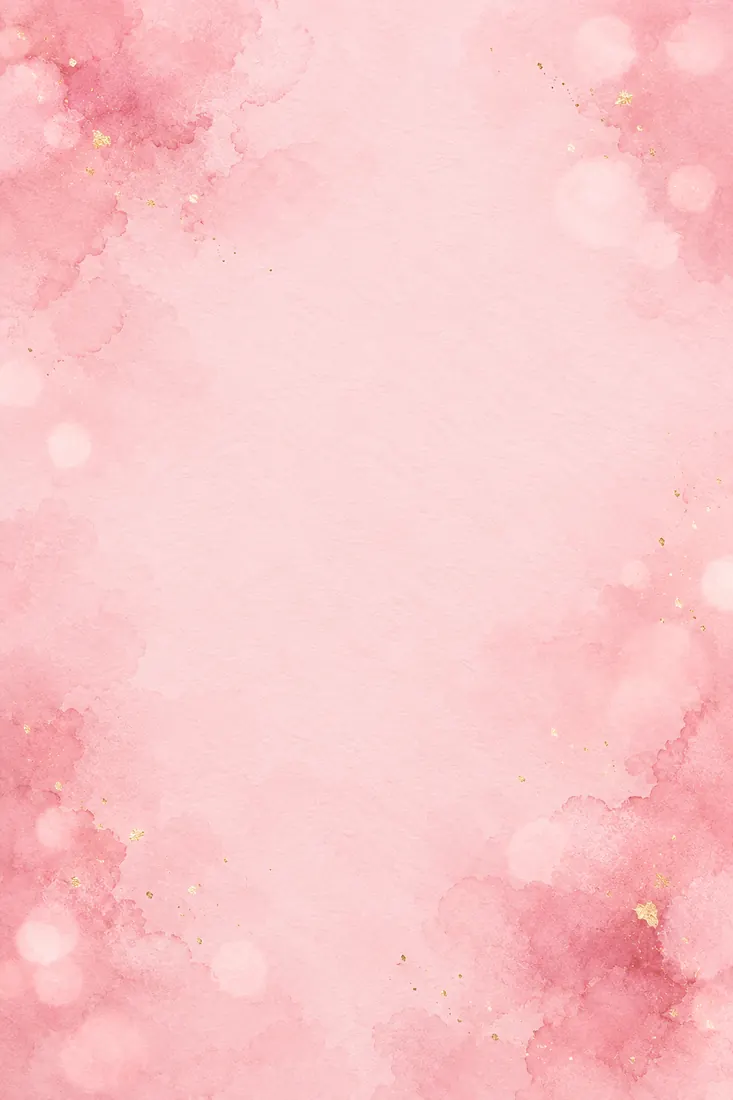
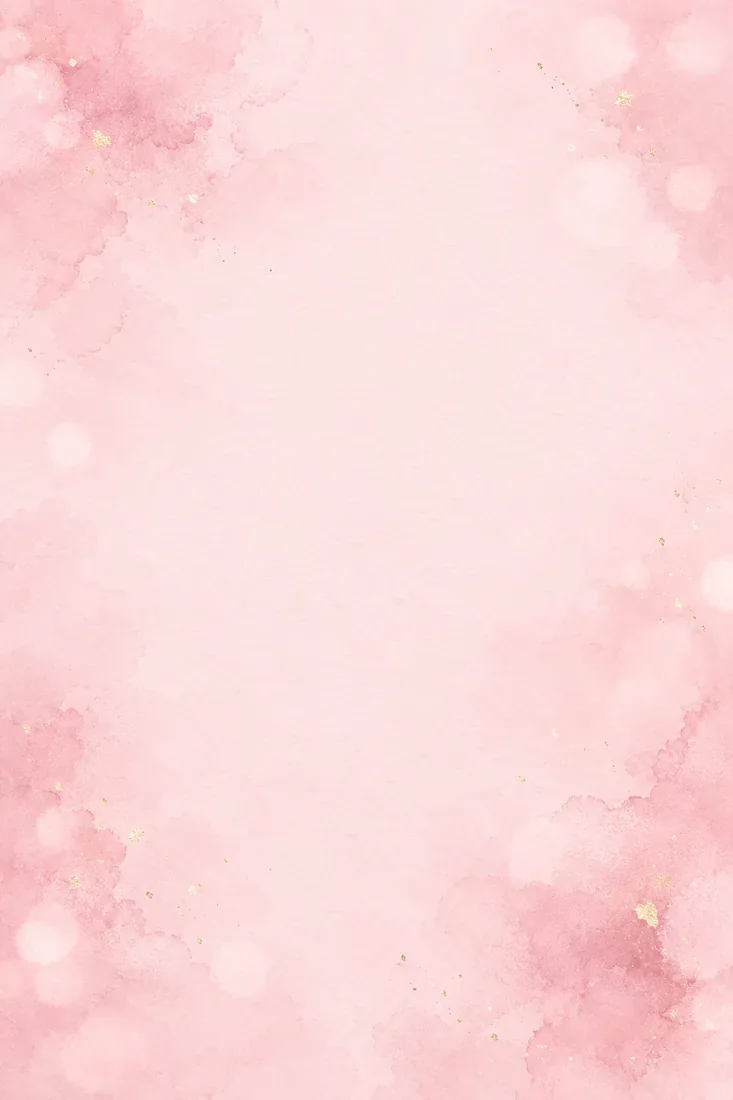
Use the layered paper-cut gate as the /hq2 intro
Three-layer paper-cut floral arch; tapping "Bước vào thiệp" steps
through the gate into the invitation. Colours brightened slightly.

Claude-Session: https://claude.ai/code/session_01Yc1WXYE9fZ5AE7FLixeSb1

diff --git a/hq2/index.html b/hq2/index.html
@@ -14,8 +14,8 @@
   <meta property="og:description" content="Trân trọng kính mời quý khách đến chung vui cùng gia đình chúng tôi — 29.11.2026.">
   <meta name="theme-color" content="#fdeeec">
   <meta name="robots" content="noindex,nofollow">
-  <link rel="preload" as="image" href="anh/bia-thiep.webp">
-  <link rel="preload" as="image" href="anh/dau-sap.webp">
+  <link rel="preload" as="image" href="anh/c-truoc.webp">
+  <link rel="preload" as="image" href="anh/c-sau.webp">
   <link rel="preconnect" href="https://fonts.googleapis.com">
   <link rel="preconnect" href="https://fonts.gstatic.com" crossorigin>
   <link rel="stylesheet" href="https://fonts.googleapis.com/css2?family=Viaoda+Libre&family=EB+Garamond:ital,wght@0,400;0,500;0,600;0,700;1,400;1,500&family=Alex+Brush&family=Be+Vietnam+Pro:wght@400;500;600;700&display=swap">
@@ -341,84 +341,48 @@
     @keyframes qmo{0%{transform:scale(1)}40%{transform:scale(.94) rotate(-2deg)}100%{transform:scale(1.1) rotate(2deg);opacity:.2}}
     @media (prefers-reduced-motion:reduce){.qua-anh,.sao{animation:none !important;}}
 
-    /* ===== mở đầu: bìa thiệp màu nước, dấu sáp, lật sang trái như cuốn sách ===== */
-    .mo{flex-direction:column;gap:0;padding:20px 16px;
-      background:radial-gradient(70% 48% at 50% 44%,rgba(255,247,248,.7),rgba(252,228,232,.2) 72%),url(anh/nen-hong.webp) center/cover no-repeat,#f9dfe3;
-      backdrop-filter:none;-webkit-backdrop-filter:none;overflow:hidden;transition:opacity 1.05s ease,transform 1.25s cubic-bezier(.3,.7,.2,1);}
+    /* ===== mở đầu: cổng hoa giấy cắt nhiều lớp ===== */
+    .mo{flex-direction:column;gap:0;padding:18px 16px;overflow:hidden;backdrop-filter:none;-webkit-backdrop-filter:none;
+      background:radial-gradient(75% 52% at 50% 46%,rgba(255,250,251,.78),rgba(255,240,243,.32) 72%),url(anh/nen-hong.webp) center/cover no-repeat,#fbe9ec;
+      transition:opacity 1s ease,transform 1.2s cubic-bezier(.3,.7,.2,1);}
     .mo.tat{display:flex;opacity:0;transform:scale(1.08);pointer-events:none;}
     .bokeh{position:absolute;left:var(--x);top:var(--y);width:var(--s);height:var(--s);border-radius:50%;pointer-events:none;
       background:radial-gradient(circle,rgba(255,255,255,.8),rgba(255,236,240,.25) 45%,rgba(255,255,255,0) 70%);animation:bokeh 8s ease-in-out var(--d) infinite;}
     @keyframes bokeh{0%,100%{transform:translate(0,0) scale(1);opacity:.5}50%{transform:translate(12px,-18px) scale(1.15);opacity:.95}}
-    .sach{position:relative;width:min(78vw,318px,calc((100svh - 190px) / 1.5));aspect-ratio:2/3;perspective:1800px;
-      transition:transform 1.35s cubic-bezier(.55,.05,.25,1) .3s;animation:sachVao 1.2s cubic-bezier(.2,.8,.2,1) backwards;}
-    @keyframes sachVao{from{opacity:0;transform:translateY(26px) scale(.95)}to{opacity:1;transform:none}}
-    .bia,.trang-trong,.bia-truoc,.bia-sau{position:absolute;inset:0;border-radius:14px;}
-    .bia{z-index:2;transform-origin:0 50%;transform-style:preserve-3d;transition:transform 1.55s cubic-bezier(.62,.02,.2,1) .3s;}
-    .bia-truoc{overflow:hidden;backface-visibility:hidden;-webkit-backface-visibility:hidden;
-      background:#f8dfe3 url(anh/bia-thiep.webp) center/cover no-repeat;
-      box-shadow:0 36px 60px -24px rgba(110,35,55,.5),0 12px 24px -12px rgba(110,35,55,.3),inset 0 0 0 1px rgba(255,255,255,.55);}
-    .bia-truoc::after{content:"";position:absolute;inset:0;pointer-events:none;
-      background:linear-gradient(105deg,transparent 25%,rgba(255,255,255,.5) 45%,rgba(255,240,210,.35) 52%,transparent 70%);
-      transform:translateX(-120%);animation:loaBia 5s ease-in-out 1.6s infinite;}
-    @keyframes loaBia{0%{transform:translateX(-120%)}38%,100%{transform:translateX(120%)}}
-    .bia-sau{overflow:hidden;transform:rotateY(180deg);backface-visibility:hidden;-webkit-backface-visibility:hidden;
-      background:#fbe9ec url(anh/bia-trong.webp) center/cover no-repeat;box-shadow:inset -20px 0 30px -18px rgba(140,50,70,.35);}
-    .trang-trong{z-index:1;overflow:hidden;text-align:center;display:flex;flex-direction:column;align-items:center;justify-content:center;padding:12% 14%;
-      background:#fdf3f4 url(anh/trang-trong.webp) center/cover no-repeat;
-      box-shadow:0 36px 60px -24px rgba(110,35,55,.45),0 12px 24px -12px rgba(110,35,55,.25);}
-    .trang-trong::after{content:"";position:absolute;inset:0;pointer-events:none;background:linear-gradient(90deg,rgba(110,35,55,.34),rgba(110,35,55,0) 55%);
-      transition:opacity 1.3s ease .8s;}
-    /* chữ trên mặt bìa */
-    .bt-vom{position:absolute;left:21%;right:21%;top:19%;bottom:31%;display:flex;flex-direction:column;align-items:center;justify-content:center;text-align:center;}
-    .bt-nho{font-family:var(--sans);font-size:clamp(8px,2.5vw,9.5px);letter-spacing:.32em;text-transform:uppercase;color:#a9803f;padding-left:.32em;margin-bottom:8%;}
-    .bt-ten{font-family:"Viaoda Libre",var(--serif);font-size:clamp(22px,7vw,29px);line-height:1.12;color:#b84a5f;}
-    .bt-va{font-family:"Alex Brush",cursive;font-size:clamp(26px,8vw,34px);line-height:1.1;
-      background:linear-gradient(100deg,#9b7130,#d9b46a 30%,#f6e2a8 45%,#c79b4c 60%,#a77b36);background-size:220% 100%;
-      -webkit-background-clip:text;background-clip:text;color:transparent;animation:nhuVang 5s linear infinite;padding:0 .1em;}
-    @keyframes nhuVang{to{background-position:-220% 0}}
-    .bt-gach{display:flex;align-items:center;gap:8px;margin:9% 0 6%;}
-    .bt-gach i{width:26px;height:1px;background:linear-gradient(90deg,transparent,#c29a55);}
-    .bt-gach i:last-child{background:linear-gradient(270deg,transparent,#c29a55);}
-    .bt-gach svg{width:9px;height:8px;fill:#c25467;}
-    .bt-ngay{font-family:var(--serif);font-size:clamp(13px,4vw,16px);letter-spacing:.2em;color:#8c3245;padding-left:.2em;font-variant-numeric:lining-nums;}
-    .bt-khach{position:absolute;left:12%;right:12%;top:74%;bottom:6%;display:flex;flex-direction:column;align-items:center;justify-content:center;text-align:center;}
-    .bt-loi{font-family:var(--sans);font-size:clamp(8px,2.5vw,9.5px);letter-spacing:.3em;text-transform:uppercase;color:#a9803f;padding-left:.3em;}
-    .bt-ten-khach{font-family:"Alex Brush",cursive;font-size:clamp(19px,6.1vw,25px);line-height:1.1;color:#9c3a50;margin-top:4px;text-wrap:balance;
-      overflow-wrap:anywhere;display:-webkit-box;-webkit-line-clamp:2;-webkit-box-orient:vertical;overflow:hidden;}
-    /* dấu sáp gắn mép phải */
-    .dau-sap{position:absolute;right:-9%;top:50%;width:26%;aspect-ratio:1;translate:0 -50%;z-index:5;padding:0;border:0;background:none;cursor:pointer;
-      border-radius:50%;-webkit-tap-highlight-color:transparent;animation:dapDau 2.8s ease-in-out 1.4s infinite;}
-    .dau-sap img{width:100%;height:100%;display:block;filter:drop-shadow(0 8px 10px rgba(100,25,45,.35));}
-    .dau-sap:focus-visible{outline:2px solid #8c3245;outline-offset:4px;}
-    @keyframes dapDau{0%,100%{transform:scale(1)}8%{transform:scale(1.07)}16%{transform:scale(1)}24%{transform:scale(1.05)}32%{transform:scale(1)}}
-    .mo-du{margin:22px 0 14px;font-family:var(--serif);font-style:italic;font-size:15px;color:#9a5a66;text-align:center;}
-    .nut-mo{animation:moiMo 2.6s ease-in-out 1.2s infinite;box-shadow:0 12px 24px -10px rgba(170,60,80,.7),0 0 0 3px rgba(224,196,138,.4);}
+    .cg-moi{display:flex;flex-direction:column;align-items:center;text-align:center;margin-bottom:18px;}
+    .cg-loi{font-family:var(--sans);font-size:10px;letter-spacing:.3em;text-transform:uppercase;color:#b58a45;padding-left:.3em;}
+    .cg-khach{font-family:"Alex Brush",cursive;font-size:clamp(28px,8.6vw,36px);line-height:1.1;color:#8c3245;margin-top:4px;text-wrap:balance;max-width:330px;overflow-wrap:anywhere;}
+    .cg-du{margin:16px 0 0;font-family:var(--serif);font-style:italic;font-size:14px;color:#9a5a66;text-align:center;}
+    .cong{position:relative;width:min(80vw,320px,calc((100svh - 250px) / 1.5));aspect-ratio:2/3;cursor:pointer;-webkit-tap-highlight-color:transparent;
+      animation:congVao 1.2s cubic-bezier(.2,.8,.2,1) backwards;}
+    @keyframes congVao{from{opacity:0;transform:translateY(24px) scale(.95)}to{opacity:1;transform:none}}
+    .lop{position:absolute;inset:0;transform-origin:50% 46%;}
+    .lop img{width:100%;height:100%;display:block;}
+    .lop-sau{border-radius:10px;overflow:hidden;background:#fdf3f4 url(anh/c-sau.webp) center/cover;
+      box-shadow:0 34px 56px -24px rgba(110,35,55,.45),0 10px 20px -10px rgba(110,35,55,.25);transition:transform 2.4s cubic-bezier(.2,.7,.2,1);}
+    .lop-giua{filter:drop-shadow(0 6px 6px rgba(110,35,55,.24));animation:dua1 7s ease-in-out infinite;}
+    .lop-truoc{filter:drop-shadow(0 10px 10px rgba(110,35,55,.28));animation:dua2 7s ease-in-out infinite;}
+    @keyframes dua1{0%,100%{translate:0 0}50%{translate:-3px 2px}}
+    @keyframes dua2{0%,100%{translate:0 0}50%{translate:4px -3px}}
+    .cg-chu{position:absolute;left:24%;right:24%;top:21%;bottom:24%;display:flex;flex-direction:column;align-items:center;justify-content:center;text-align:center;}
+    .cg-nho{font-family:var(--sans);font-size:9px;letter-spacing:.3em;text-transform:uppercase;color:#a9803f;padding-left:.3em;margin-bottom:8px;}
+    .cg-ten{font-family:"Viaoda Libre",var(--serif);font-size:clamp(21px,6.6vw,27px);color:#b84a5f;line-height:1.12;}
+    .cg-va{font-family:"Alex Brush",cursive;font-size:28px;line-height:1.1;color:#c29a55;}
+    .cg-gach{width:80px;height:1px;margin:12px 0 8px;background:linear-gradient(90deg,transparent,#c29a55,transparent);}
+    .cg-ngay{font-family:var(--serif);font-size:13px;letter-spacing:.16em;color:#8c3245;padding-left:.16em;}
+    .cg-am{margin-top:4px;font-family:var(--serif);font-size:11px;font-style:italic;color:#9a5a66;}
+    .nut-mo{margin-top:16px;animation:moiMo 2.6s ease-in-out 1.2s infinite;box-shadow:0 12px 24px -10px rgba(170,60,80,.7),0 0 0 3px rgba(224,196,138,.4);}
     @keyframes moiMo{0%,100%{box-shadow:0 12px 24px -10px rgba(170,60,80,.7),0 0 0 3px rgba(224,196,138,.4),0 0 0 0 rgba(203,93,108,.35)}
       50%{box-shadow:0 12px 24px -10px rgba(170,60,80,.7),0 0 0 3px rgba(224,196,138,.4),0 0 0 12px rgba(203,93,108,0)}}
-    /* chữ trang trong */
-    .tt-nho{font-family:var(--sans);font-size:9.5px;letter-spacing:.3em;text-transform:uppercase;color:#a9803f;padding-left:.3em;margin-bottom:12px;}
-    .tt-ten{font-family:"Viaoda Libre",var(--serif);font-size:clamp(24px,7.6vw,31px);color:#b84a5f;line-height:1.15;}
-    .tt-va{font-family:"Alex Brush",cursive;font-size:32px;line-height:1.15;color:#c29a55;}
-    .tt-gach{width:90px;height:1px;margin:16px 0 10px;background:linear-gradient(90deg,transparent,#c29a55,transparent);}
-    .tt-ngay{font-size:14px;letter-spacing:.14em;color:#8c3245;}
-    .tt-am{margin-top:6px;font-size:12px;font-style:italic;color:#9a5a66;}
-    .trang-trong > span{position:relative;opacity:0;transform:translateY(10px);transition:opacity .8s ease,transform .9s cubic-bezier(.2,.7,.2,1);}
-    /* đang mở */
-    .mo-ra .dau-sap{animation:voDau .6s cubic-bezier(.4,0,.2,1) forwards;}
-    @keyframes voDau{0%{transform:scale(1);opacity:1}35%{transform:scale(1.2) rotate(-10deg);opacity:1}100%{transform:scale(.3) rotate(-40deg) translate(10px,40px);opacity:0}}
-    .mo-ra .sach{transform:translateX(18%) translateY(-2%) scale(.8);}
-    .mo-ra .bia{transform:rotateY(-116deg);}
-    .mo-ra .bia-truoc::after{animation:none;}
-    .mo-ra .nut-mo,.mo-ra .mo-du{opacity:0;transition:opacity .4s;animation:none;}
-    .mo-ra .trang-trong::after{opacity:0;}
-    .mo-ra .trang-trong > span{opacity:1;transform:none;}
-    .mo-ra .trang-trong > span:nth-of-type(1){transition-delay:1.05s;} .mo-ra .trang-trong > span:nth-of-type(2){transition-delay:1.2s;}
-    .mo-ra .trang-trong > span:nth-of-type(3){transition-delay:1.35s;} .mo-ra .trang-trong > span:nth-of-type(4){transition-delay:1.5s;}
-    .mo-ra .trang-trong > span:nth-of-type(5){transition-delay:1.65s;} .mo-ra .trang-trong > span:nth-of-type(6){transition-delay:1.75s;}
-    .mo-ra .trang-trong > span:nth-of-type(7){transition-delay:1.85s;}
-    .mo.bay .sach{transform:translateX(10%) translateY(-4%) scale(1.32);opacity:0;
-      transition:transform .85s cubic-bezier(.5,0,.7,.3),opacity .55s ease .05s;}
-    .mo.bay .bokeh{opacity:0;transition:opacity .6s;}
+    /* bước qua cổng */
+    .mo-ra .lop-truoc{animation:quaTruoc 1.5s cubic-bezier(.55,0,.75,.2) forwards;}
+    @keyframes quaTruoc{to{transform:scale(3.2);opacity:0}}
+    .mo-ra .lop-giua{animation:quaGiua 1.7s cubic-bezier(.5,0,.7,.25) .1s forwards;}
+    @keyframes quaGiua{to{transform:scale(2.1);opacity:0}}
+    .mo-ra .lop-sau{transform:scale(1.14);}
+    .mo-ra .cg-chu > *{animation:sangChu 1.4s ease .5s both;}
+    @keyframes sangChu{0%{filter:none}40%{filter:drop-shadow(0 0 10px rgba(255,236,190,.9))}100%{filter:none}}
+    .mo-ra .cg-an,.mo-ra .nut-mo{opacity:0;transition:opacity .45s;animation:none;}
     .no-hoa{position:fixed;inset:0;pointer-events:none;z-index:3;}
     .no-hoa img,.no-hoa i{position:absolute;display:block;}
     .no-hoa .kim{border-radius:50%;background:radial-gradient(circle,#fff6d8,#e8c77d 55%,rgba(232,199,125,0) 72%);}
@@ -434,8 +398,7 @@
     html.da-mo .dau .deco:nth-child(7){animation-delay:.55s;} html.da-mo .dau .deco:nth-child(8){animation-delay:1s;}
     @keyframes decoVao{from{opacity:0;filter:blur(5px)}to{opacity:var(--o,1);filter:none}}
     @media (prefers-reduced-motion:reduce){
-      .sach,.bokeh,.nut-mo,.dau-sap,.bia-truoc::after,.bt-va{animation:none !important;}
-      .trang-trong > span{opacity:1;transform:none;}
+      .cong,.bokeh,.nut-mo,.lop-giua,.lop-truoc{animation:none !important;}
       html.da-mo .dau .vom,html.da-mo .vom h1,html.da-mo .dau .deco{animation:none !important;opacity:1;}
       .js .dau .deco{opacity:var(--o,1);}
     }
@@ -463,42 +426,20 @@
 <img src="anh/canh-4.webp" alt="" style="--x:64%;--s:22px;--d:17.6s;--tre:-1.2s;--lac:38px">
 </div>
 
-<!-- ============ THIỆP MỞ ĐẦU: bìa thiệp màu nước, dấu sáp ở mép, mở sang trái như cuốn sách ============ -->
+<!-- ============ THIỆP MỞ ĐẦU: cổng hoa giấy cắt nhiều lớp, bấm để "bước qua" vào thiệp ============ -->
 <div class="mo" id="mo">
   <i class="bokeh" style="--x:6%;--y:10%;--s:130px;--d:0s"></i><i class="bokeh" style="--x:74%;--y:6%;--s:90px;--d:-2s"></i>
   <i class="bokeh" style="--x:82%;--y:64%;--s:150px;--d:-4s"></i><i class="bokeh" style="--x:2%;--y:72%;--s:100px;--d:-1s"></i>
-  <i class="bokeh" style="--x:42%;--y:88%;--s:80px;--d:-3s"></i>
-  <div class="sach" id="sach">
-    <div class="trang-trong" aria-hidden="true">
-      <span class="tt-nho">Trân trọng kính mời</span>
-      <span class="tt-ten">Ngọc Huy</span>
-      <span class="tt-va">&amp;</span>
-      <span class="tt-ten">Hương Giang</span>
-      <span class="tt-gach"></span>
-      <span class="tt-ngay">Chủ Nhật · 29.11.2026</span>
-      <span class="tt-am">Tức ngày 21/10 năm Bính Ngọ</span>
-    </div>
-    <div class="bia">
-      <div class="bia-truoc">
-        <div class="bt-vom">
-          <span class="bt-nho">Thiệp mời cưới</span>
-          <span class="bt-ten">Ngọc Huy</span>
-          <span class="bt-va">&amp;</span>
-          <span class="bt-ten">Hương Giang</span>
-          <span class="bt-gach" aria-hidden="true"><i></i><svg viewBox="0 0 24 22"><use href="#tim"/></svg><i></i></span>
-          <span class="bt-ngay">29 · 11 · 2026</span>
-        </div>
-        <div class="bt-khach">
-          <span class="bt-loi" id="moLoi">Thân Mời</span>
-          <span class="bt-ten-khach" id="moTen">Quý khách</span>
-        </div>
-      </div>
-      <div class="bia-sau" aria-hidden="true"></div>
-    </div>
-    <button class="dau-sap" id="moDau" type="button" aria-label="Mở thiệp"><img src="anh/dau-sap.webp" alt="" width="355" height="360"></button>
+  <div class="cg-moi cg-an"><span class="cg-loi" id="moLoi">Thân Mời</span><span class="cg-khach" id="moTen">Quý khách</span></div>
+  <div class="cong" id="cong" role="button" tabindex="-1" aria-label="Mở thiệp">
+    <div class="lop lop-sau"><div class="cg-chu">
+      <span class="cg-nho">Thiệp mời cưới</span><span class="cg-ten">Ngọc Huy</span><span class="cg-va">&amp;</span><span class="cg-ten">Hương Giang</span>
+      <span class="cg-gach"></span><span class="cg-ngay">29 · 11 · 2026</span><span class="cg-am">Chủ Nhật · 21/10 năm Bính Ngọ</span></div></div>
+    <div class="lop lop-giua"><img src="anh/c-giua.webp" alt="" width="800" height="1200"></div>
+    <div class="lop lop-truoc"><img src="anh/c-truoc.webp" alt="" width="800" height="1200"></div>
   </div>
-  <p class="mo-du">Đến dự buổi tiệc chung vui cùng gia đình</p>
-  <button class="nut-mo" id="moBtn" type="button">Mở thiệp</button>
+  <p class="cg-du cg-an">Đến dự buổi tiệc chung vui cùng gia đình</p>
+  <button class="nut-mo" id="moBtn" type="button">Bước vào thiệp</button>
 </div>
 <script>document.documentElement.classList.add("dong","js");</script>
 
@@ -759,26 +700,25 @@ const TUCUON = (function(){
   return { batDau(tre){ btn.hidden = false; if(!reduce) setTimeout(chayDi, tre || 0); }, dung };
 })();
 
-/* ---------------- mở thiệp: dấu sáp vỡ, bìa lật sang trái, cánh hoa bung, rồi hiện trang ---------------- */
+/* ---------------- mở thiệp: bước xuyên qua cổng hoa giấy, cánh hoa bay, rồi hiện trang ---------------- */
 (function(){
   const mo = $("#mo"), html = document.documentElement; let xong = false;
   function bungHoa(){
-    const r = $("#sach").getBoundingClientRect(), cx = r.left + r.width * .66, cy = r.top + r.height * .42;
+    const r = $("#cong").getBoundingClientRect(), cx = r.left + r.width / 2, cy = r.top + r.height * .46;
     const lop = document.createElement("div"); lop.className = "no-hoa"; mo.appendChild(lop);
-    for(let i = 0; i < 42; i++){
-      const hoa = i < 28;
-      const e = document.createElement(hoa ? "img" : "i");
+    for(let i = 0; i < 44; i++){
+      const hoa = i % 3 !== 2, e = document.createElement(hoa ? "img" : "i");
       if(hoa){ e.src = "anh/canh-" + (1 + i % 4) + ".webp"; e.alt = ""; } else e.className = "kim";
       const s = hoa ? 16 + Math.random() * 20 : 4 + Math.random() * 6;
       e.style.cssText = `left:${cx - s / 2}px;top:${cy - s / 2}px;width:${s}px;height:${hoa ? "auto" : s + "px"}`;
       lop.appendChild(e);
-      const g = Math.random() * Math.PI * 2, d = (hoa ? 140 : 90) + Math.random() * (hoa ? 220 : 200);
-      const x = Math.cos(g) * d, y = Math.sin(g) * d * .8 - 40, q = (Math.random() < .5 ? -1 : 1) * (240 + Math.random() * 420);
+      const g = Math.random() * Math.PI * 2, d = 130 + Math.random() * 230;
+      const x = Math.cos(g) * d, y = Math.sin(g) * d * .85 - 30, q = (Math.random() < .5 ? -1 : 1) * (240 + Math.random() * 420);
       e.animate([
         { transform: "translate(0,0) scale(.3) rotate(0)", opacity: 0 },
         { transform: `translate(${x * .55}px,${y * .55}px) scale(1) rotate(${q * .5}deg)`, opacity: 1, offset: .35 },
-        { transform: `translate(${x}px,${y + 120}px) scale(.85) rotate(${q}deg)`, opacity: 0 }
-      ], { duration: 1700 + Math.random() * 900, delay: Math.random() * 260, easing: "cubic-bezier(.2,.65,.3,1)", fill: "both" });
+        { transform: `translate(${x}px,${y + 140}px) scale(.85) rotate(${q}deg)`, opacity: 0 }
+      ], { duration: 1800 + Math.random() * 900, delay: Math.random() * 250, easing: "cubic-bezier(.2,.65,.3,1)", fill: "both" });
     }
   }
   function moThiep(){
@@ -791,13 +731,12 @@ const TUCUON = (function(){
       setTimeout(() => { mo.remove(); TUCUON.batDau(2800); }, reduce ? 250 : 1100);
     };
     if(reduce){ hienTrang(); return; }
-    mo.classList.add("mo-ra");                     // dấu sáp vỡ -> bìa lật sang trái -> trang trong hiện chữ
-    setTimeout(bungHoa, 700);
-    setTimeout(() => mo.classList.add("bay"), 2750);    // thiệp bay về phía người xem rồi tan
-    setTimeout(hienTrang, 3100);
+    mo.classList.add("mo-ra");                     // lớp giấy trước và giữa phóng to lướt qua người xem
+    setTimeout(bungHoa, 500);
+    setTimeout(hienTrang, 2500);
   }
   $("#moBtn").addEventListener("click", moThiep);
-  $("#moDau").addEventListener("click", moThiep);
+  $("#cong").addEventListener("click", moThiep);
 })();
 
 /* ---------------- hiện dần khi cuộn tới ---------------- */
